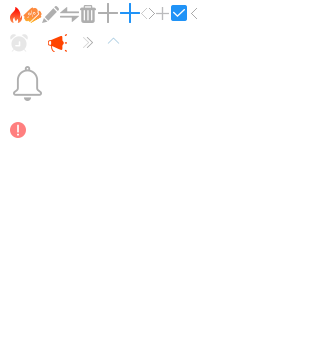
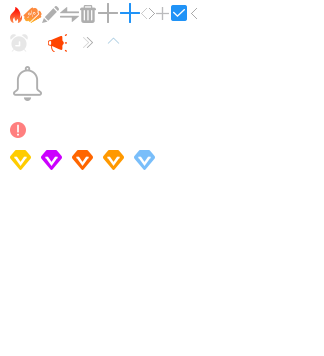
新增粉丝管理 会员管理

Changed region(s): [[0.216, 0.4017, 0.4938, 0.4944], [0.0309, 0.4017, 0.0926, 0.4944], [0.1235, 0.4017, 0.1852, 0.4944]]

diff --git a/css/columns.css b/css/columns.css
@@ -1,6 +1,6 @@
 .ca-hotel-msg{margin-right:42px;}
 .ca-tips{width:100%; height:38px; border:1px solid #ffcb80; line-height:40px; color:#333; margin-top:20px; margin-bottom:10px; background:#ffffe7; font-size:14px;}
-.ca-tips>span{background:url(../images/sugar.png) no-repeat no-repeat -10px -120px; width:18px; height:18px; display:block; float:left; margin:11px;}
+.ca-tips>span{background:url(../images/sugar.png) no-repeat -10px -120px; width:18px; height:18px; display:block; float:left; margin:11px;}
 .ca-message{ width:100%;}
 .ca-message tr{line-height:55px; color:#999999;}
 .ca-message tr td:first-child{ text-align:right; padding-right:15px;}
@@ -14,3 +14,27 @@
 .ca-keep-btn{width:160px; height:45px; background:#2093f7; color:#fff; border:none; font-size:18px; border-radius:4px}
 .ca-map{height:290px; width:900px;}
 .ca-map img{width:100%; height:100%;}
+
+/*会员管理*/
+.ca-vip-list table tbody tr td{color:#333;}
+.ca-no-chose{border:1px solid #ddd; width:14px; height:14px; display:block; margin:0 auto;}
+.ca-done-chosed{background:url(../images/sugar.png) no-repeat -171px -5px; width:16px; height:16px; display:block; border:none;}
+.ca-vip-list table tbody tr td div{ width:20px; height:20px; display:block; margin-left:10px; margin-right:-28px; float:left;}
+.ca-vip-heard{width:50px; height:50px; display:block; margin:0 auto; border-radius:50%;}
+.ca-vip-heard img{width:100%; height:100%;}
+.ca-vip-ordinary{background:url(../images/sugar.png) no-repeat  -134px -150px;}
+.ca-vip-senior{background:url(../images/sugar.png) no-repeat  -10px -150px;}
+.ca-vip-silver{background:url(../images/sugar.png) no-repeat  -103px -150px;}
+.ca-vip-gold{background:url(../images/sugar.png) no-repeat  -72px -150px;}
+.ca-vip-diamond{background:url(../images/sugar.png) no-repeat  -41px -150px;}
+
+/*粉丝管理*/
+.ca-bding-btn{border:1px solid #ededed; background:#f9f9f9; width:58px; height:20px; font-size:14px; color:#2093f7; line-height:10px;}
+.ca-bding-btn-tips{ width:60px; height:22px; background:#ccc; border:none; color:#fff; font-size:14px;}
+.ca-bding-doalog{width:100%; height:100%; background:rgba(0,0,0,0.5); position:fixed; top:0; left:0; display:none;}
+.ca-bding-doalog table{margin-top:20px;}
+.ca-bding-doalog table tr{line-height:52px;}
+.ca-bding-doalog table tr td input{ width:203px; height:33px; line-height:35px; border:1px solid #ddd;  margin-left:12px; padding-left:15px; font-size:14px; color:#333;}
+.ca-bding-doalog table tr td label{font-size:14px; color:#999; width:100%; text-align:right; float:left;}
+.ca-bding-doalog table tr td p{float:left; margin-left:12px; color:#999;}
+.ca-bding-doalog table tr td span{margin-top:18px; margin-right:5px;}

diff --git a/css/common.css b/css/common.css
@@ -5,8 +5,10 @@
 .cal-c66{color:#666;}
 .cal-font14{font-size:14px;}
 .cal-textac{text-align:center;}
+.cal-mart5{margin-top:5px;}
 .cal-mart10{margin-top:10px;}
 .cal-mart30{margin-top:30px;}
+.cal-mart40{margin-top:40px;}
 .cal-mart60{margin-top:60px;}
 .cal-marl10{margin-left:10px;}
 .cal-marl45{margin-left:45px;}
@@ -21,3 +23,4 @@
 .ca-width120{width:120px;}
 
 .ca-sml-lineheight{line-height:30px;}
+.ca-change-dialog{width:100%; height:100%; background:rgba(0,0,0,0.5); position:fixed; top:0; left:0; display:none;}
